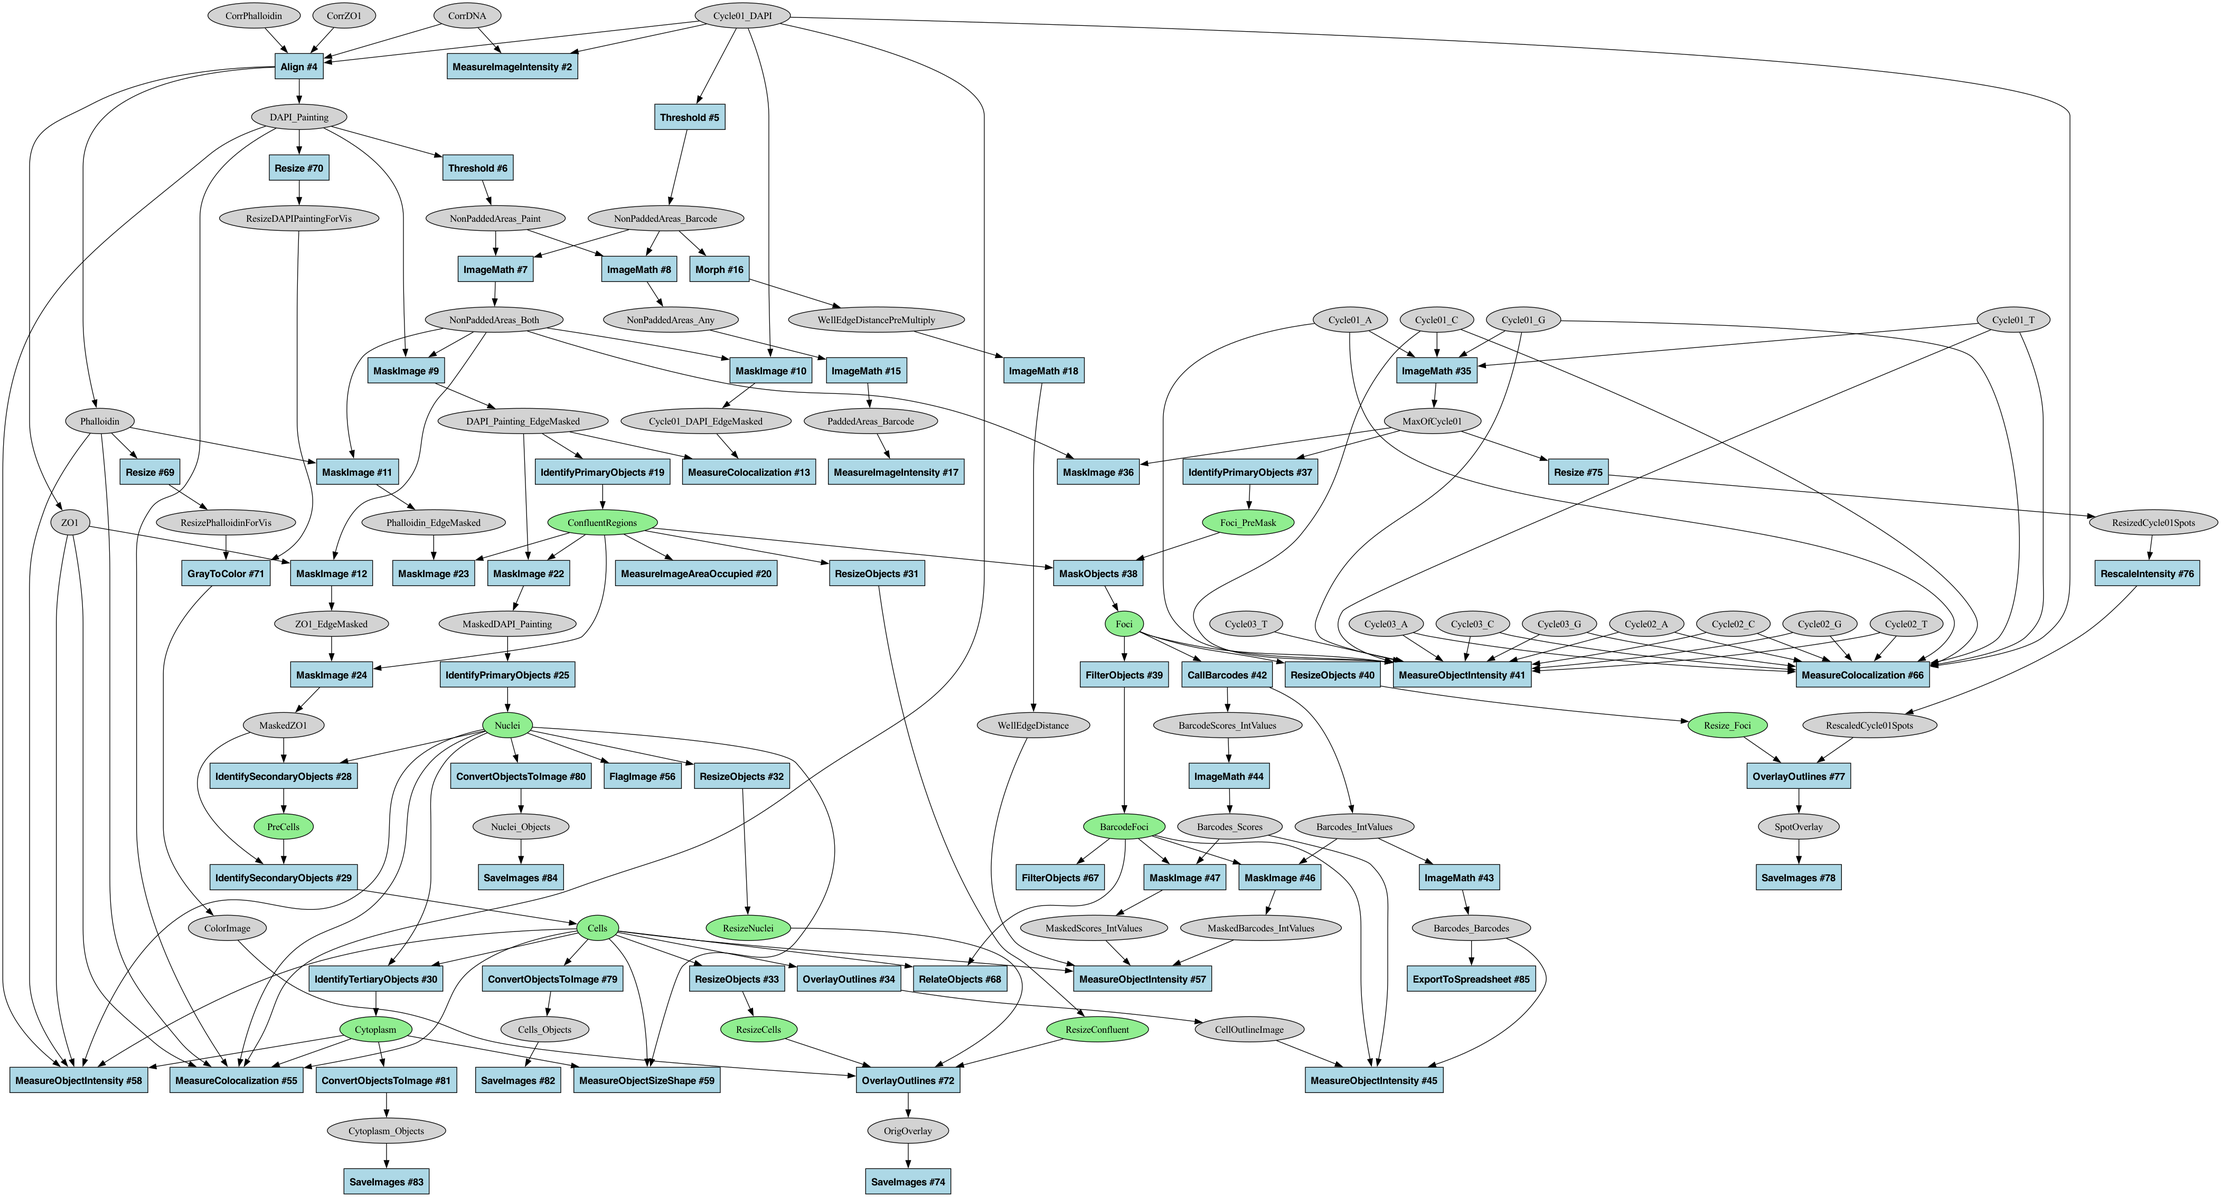
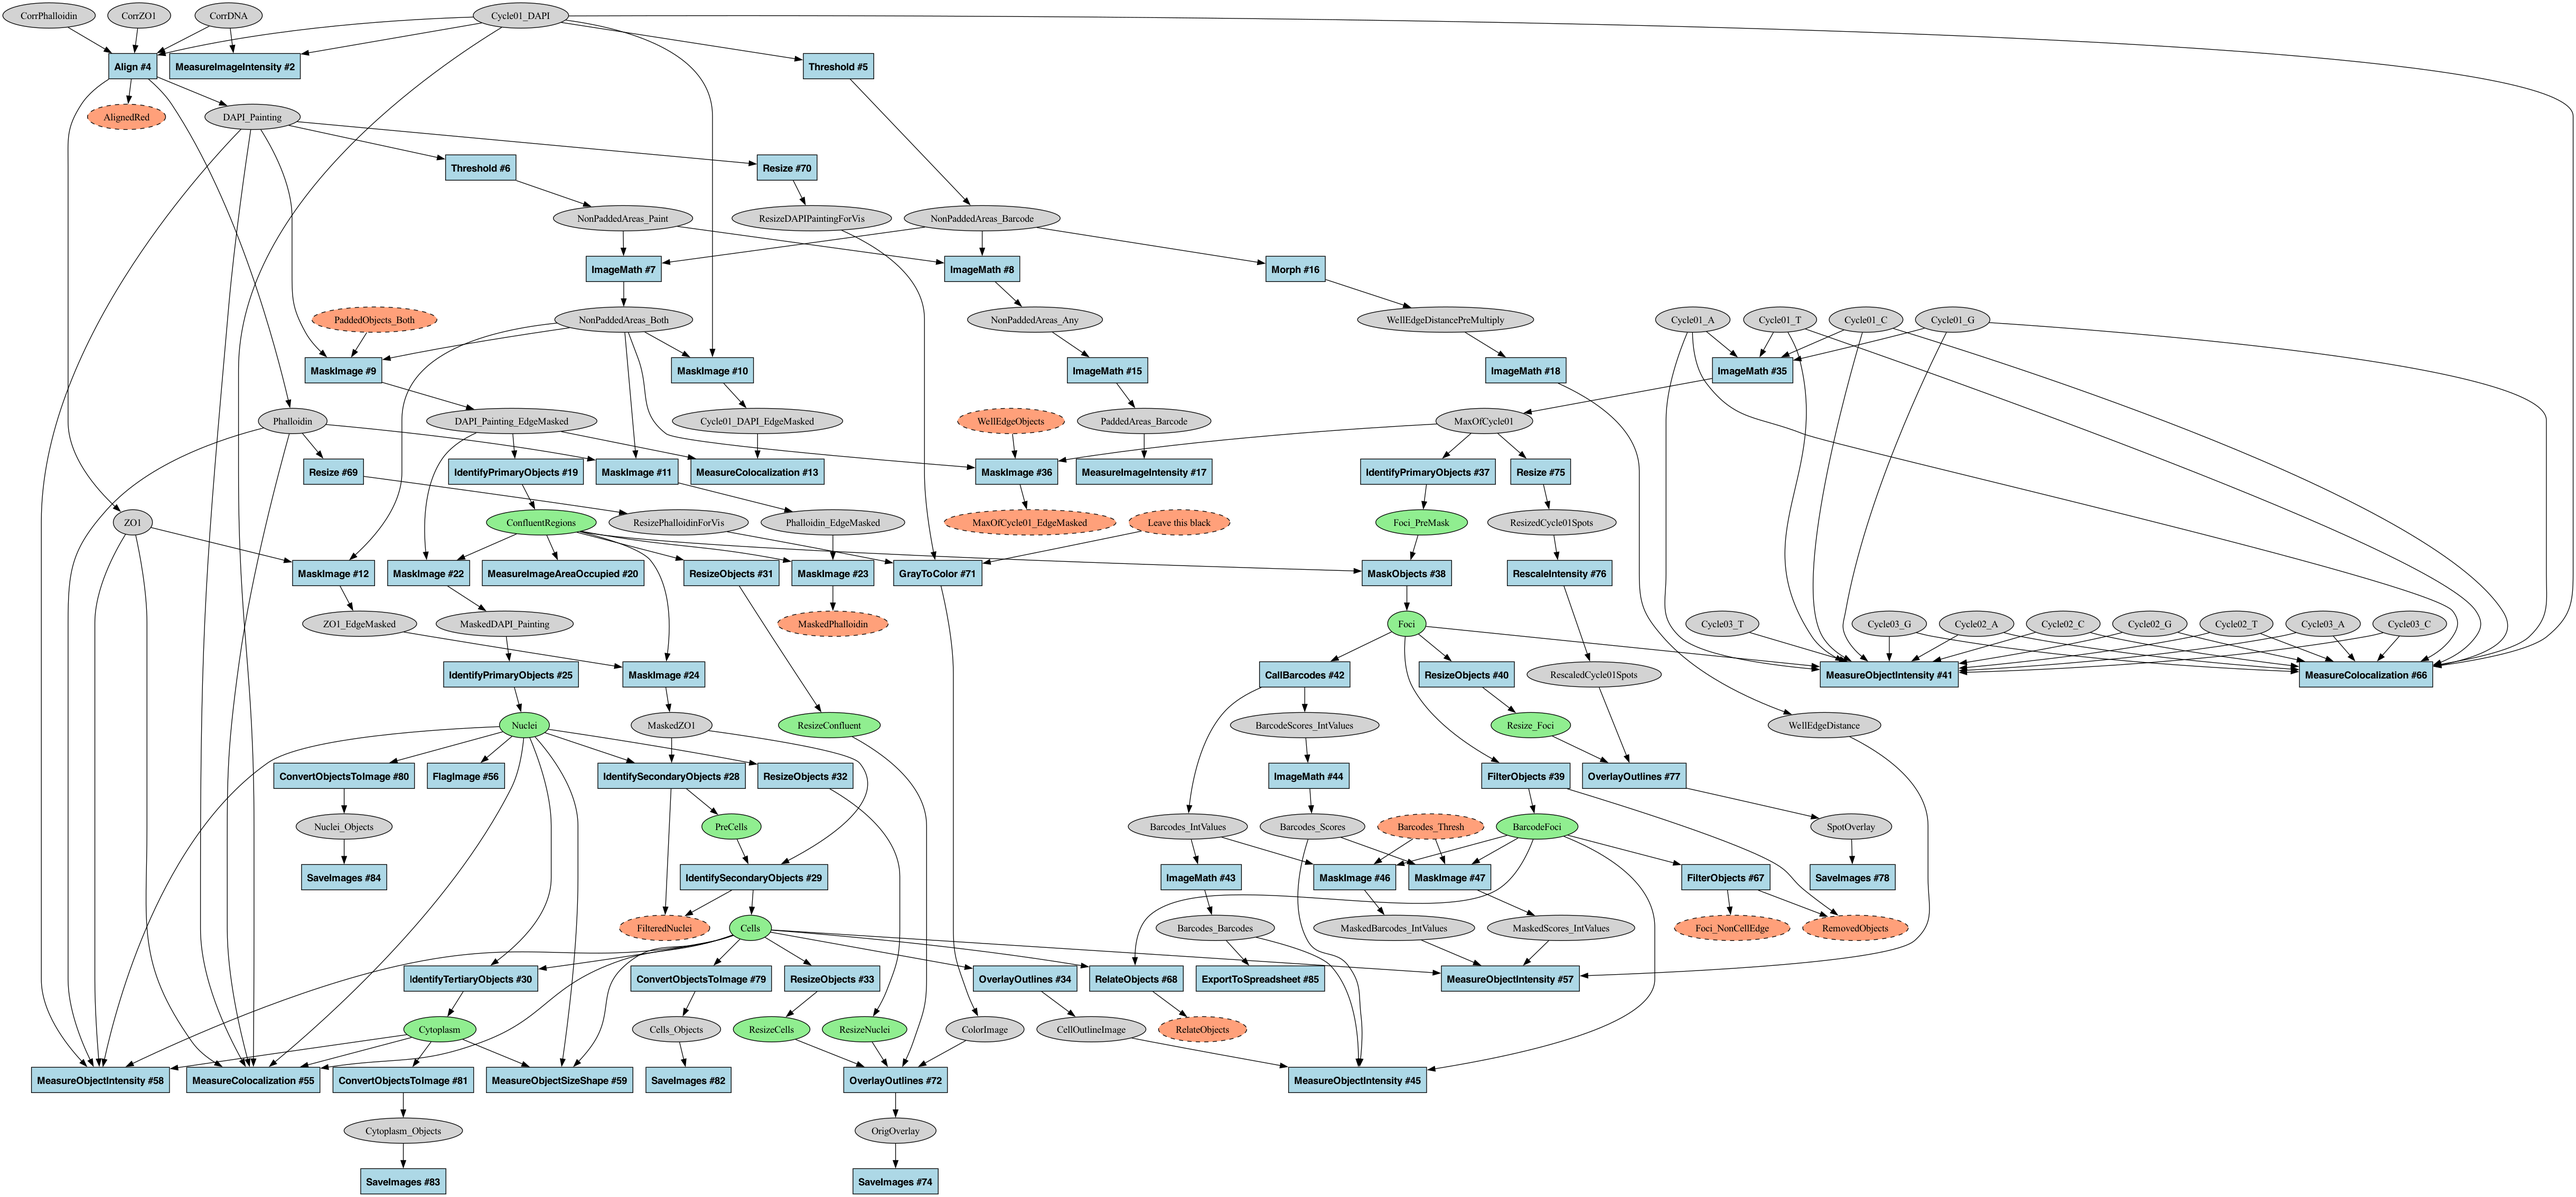
cleanup

diff --git a/README.md b/README.md
@@ -96,10 +96,10 @@ The tool provides filtering options to focus on specific parts of complex pipeli
 uv run --script cp_graph.py examples/illum.json examples/output/illum.dot
 
 # Highlight filtered nodes instead of removing them
-uv run --script cp_graph.py examples/illum.json examples/output/illum_highlight.dot --root-nodes=OrigDNA --highlight-filtered
+uv run --script cp_graph.py examples/illum.json examples/output/illum_highlight.dot --root-nodes=OrigDNA --remove-unused-data --highlight-filtered
 
 # Filter to show only nodes reachable from OrigDNA (removes unreachable nodes)
-uv run --script cp_graph.py examples/illum.json examples/output/illum_filtered.dot --root-nodes=OrigDNA
+uv run --script cp_graph.py examples/illum.json examples/output/illum_filtered.dot --root-nodes=OrigDNA --remove-unused-data
 ```
 
 <table>
@@ -183,9 +183,6 @@ uv run --script cp_graph.py examples/illum.json examples/output/illum_ids.dot --
 uv run --script cp_graph.py examples/analysis.json examples/output/analysis.dot
 
 # Filter complex analysis pipeline by specifying multiple root nodes
-uv run --script cp_graph.py examples/analysis.json examples/output/analysis_filtered.dot --remove-unused-data --root-nodes=CorrPhalloidin,CorrZO1,CorrDNA,Cycle01_DAPI,Cycle01_A,Cycle01_T,Cycle01_G,Cycle01_C,Cycle02_DAPI,Cycle02_A,Cycle02_T,Cycle02_G,Cycle02_C,Cycle03_DAPI,Cycle03_A,Cycle03_T,Cycle03_G,Cycle03_C
-
-# Filter complex analysis pipeline with fewer root nodes and unused data removal
-uv run --script cp_graph.py examples/analysis.json examples/output/analysis_filtered.dot --remove-unused-data --root-nodes=CorrPhalloidin,CorrZO1,CorrDNA
+uv run --script cp_graph.py examples/analysis.json examples/output/analysis_filtered.dot --remove-unused-data --highlight-filtered --root-nodes=CorrPhalloidin,CorrZO1,CorrDNA,Cycle01_DAPI,Cycle01_A,Cycle01_T,Cycle01_G,Cycle01_C,Cycle02_DAPI,Cycle02_A,Cycle02_T,Cycle02_G,Cycle02_C,Cycle03_DAPI,Cycle03_A,Cycle03_T,Cycle03_G,Cycle03_C
 
 ```
